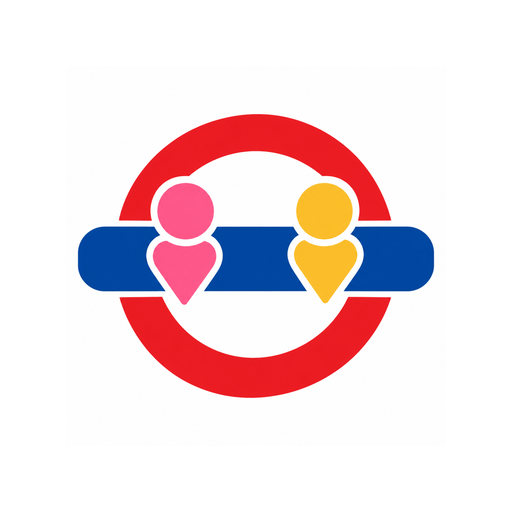
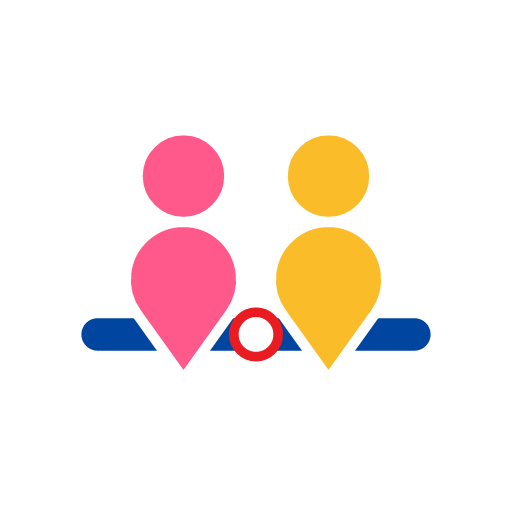
New mark: the two people lead, the tube line supports
The mark is now two large figures (pink and yellow, map-pin bodies)
standing on a tube line with one interchange ring where they meet,
replacing the roundel. scripts/build-icons.ts draws it as SVG and writes
every size: favicons and .ico, an SVG favicon, the app and touch icons, a
maskable icon kept inside Android's safe zone, and the header mark. The
share image and the in-app meeting diagram use the same interchange
marker instead of a roundel.

Claude-Session: https://claude.ai/code/session_01HVrC9VjpQCUVKEcfdWd1bh

Changed region(s): [[0.125, 0.2188, 0.875, 0.7812]]

diff --git a/scripts/build-icons.ts b/scripts/build-icons.ts
@@ -1,0 +1,69 @@
+// The getaround.london mark: two people, the hero, standing on a tube line with one interchange
+// where they meet. Draws it as SVG and writes every icon size the site uses into public/.
+// Run: npx tsx scripts/build-icons.ts [--drive <out.png>]
+import { Resvg } from '@resvg/resvg-js';
+import { writeFileSync } from 'node:fs';
+
+const C = { pink: '#FE598A', yellow: '#FABD29', blue: '#0046A0', red: '#EB1B22' };
+
+// A person: a round head sitting on a map-pin body that points down at the line.
+function person(cx: number, headY: number, color: string): string {
+    const R = 78;
+    const cy = headY + 140;
+    const tipY = cy + 134;
+    const t = Math.acos(R / (tipY - cy));
+    const lx = cx - R * Math.sin(t);
+    const rx = cx + R * Math.sin(t);
+    const ly = cy + R * Math.cos(t);
+    const body = `M ${cx} ${tipY} L ${lx.toFixed(1)} ${ly.toFixed(1)} A ${R} ${R} 0 1 1 ${rx.toFixed(1)} ${ly.toFixed(1)} Z`;
+    return `<path d="${body}" fill="${color}" stroke="#fff" stroke-width="14" stroke-linejoin="round"/><circle cx="${cx}" cy="${headY}" r="62" fill="${color}" stroke="#fff" stroke-width="14"/>`;
+}
+
+/** The mark on a 512 grid; `scale` shrinks it about the centre (for Android's maskable safe zone). */
+export function markSvg({ background, scale = 1 }: { background?: string; scale?: number } = {}): string {
+    const lineY = 362;
+    const art = `<rect x="20" y="${lineY - 22}" width="472" height="44" rx="22" fill="${C.blue}"/>${person(158, 148, C.pink)}${person(354, 148, C.yellow)}<circle cx="256" cy="${lineY}" r="30" fill="#fff" stroke="${C.red}" stroke-width="13"/>`;
+    const shift = (256 * (1 - scale)).toFixed(2);
+    return `<svg xmlns="http://www.w3.org/2000/svg" viewBox="0 0 512 512" width="512" height="512">${background ? `<rect width="512" height="512" fill="${background}"/>` : ''}<g transform="translate(${shift} ${shift}) scale(${scale})">${art}</g></svg>`;
+}
+
+const png = (svg: string, size: number) => new Resvg(svg, { fitTo: { mode: 'width', value: size } }).render().asPng();
+
+/** An .ico holding PNG images (supported by every current browser). */
+function ico(images: { size: number; data: Buffer }[]): Buffer {
+    const header = Buffer.alloc(6 + 16 * images.length);
+    header.writeUInt16LE(0, 0);
+    header.writeUInt16LE(1, 2);
+    header.writeUInt16LE(images.length, 4);
+    let offset = header.length;
+    images.forEach(({ size, data }, i) => {
+        const e = 6 + 16 * i;
+        header.writeUInt8(size >= 256 ? 0 : size, e);
+        header.writeUInt8(size >= 256 ? 0 : size, e + 1);
+        header.writeUInt16LE(1, e + 4);
+        header.writeUInt16LE(32, e + 6);
+        header.writeUInt32LE(data.length, e + 8);
+        header.writeUInt32LE(offset, e + 12);
+        offset += data.length;
+    });
+    return Buffer.concat([header, ...images.map((i) => i.data)]);
+}
+
+const out = (file: string, data: Buffer | string) => writeFileSync(`public/${file}`, data);
+const onWhite = markSvg({ background: '#FFFFFF' });
+
+out('mark.svg', markSvg());
+out('mark-512.png', png(markSvg(), 512));
+out('mark-96.png', png(markSvg(), 96));
+out('icon-512.png', png(onWhite, 512));
+out('icon-192.png', png(onWhite, 192));
+out('apple-touch-icon.png', png(onWhite, 180));
+// Android crops maskable icons to a circle of 80% width: keep the line's ends inside it.
+out('icon-maskable-512.png', png(markSvg({ background: '#FFFFFF', scale: 0.74 }), 512));
+out('favicon-32.png', png(markSvg(), 32));
+out('favicon-16.png', png(markSvg(), 16));
+out('favicon.ico', ico([16, 32, 48].map((size) => ({ size, data: png(markSvg(), size) }))));
+
+const drive = process.argv.indexOf('--drive');
+if (drive > -1) writeFileSync(process.argv[drive + 1], png(onWhite, 1254));
+console.log('icons written to public/');

diff --git a/src/main.ts b/src/main.ts
@@ -602,8 +602,8 @@ function renderConvergenceDiagram(winner: Ranked) {
     });
     html += `
         <circle cx="272" cy="${midY}" r="22" fill="#34C759" class="pulse-halo" />
-        <circle cx="272" cy="${midY}" r="11" fill="#FFFFFF" stroke="#EB1B22" stroke-width="4" />
-        <rect x="256" y="${midY - 3}" width="32" height="6" rx="3" fill="#0046A2" />
+        <rect x="252" y="${midY - 3}" width="40" height="6" rx="3" fill="#0046A0" />
+        <circle cx="272" cy="${midY}" r="9" fill="#FFFFFF" stroke="#EB1B22" stroke-width="4" />
         <text x="272" y="${midY + 28}" text-anchor="middle" fill="#1C1C1E" font-size="10.5" font-weight="700">MEET</text>`;
     svg.innerHTML = html;
 }

diff --git a/index.html b/index.html
@@ -28,6 +28,7 @@
     <meta name="apple-mobile-web-app-status-bar-style" content="default">
     <meta name="apple-mobile-web-app-title" content="getaround">
     <link rel="icon" href="/favicon.ico" sizes="48x48">
+    <link rel="icon" href="/mark.svg" type="image/svg+xml">
     <link rel="icon" href="/favicon-32.png" type="image/png" sizes="32x32">
     <link rel="apple-touch-icon" href="/apple-touch-icon.png">
     <link rel="manifest" href="/manifest.webmanifest">

diff --git a/docs/STATE.md b/docs/STATE.md
@@ -19,8 +19,11 @@ NON-GOALS: live journey times, accounts, stored sessions, bookings.
   the user acted ("Copied. Now paste it" on the button); toasts sit over the header, never over the plan.
 - Nothing ever scrolls, and no text is ever truncated. Screens compact in steps; extra venues sit behind "N more
   places"; pickers trim behind "+N more". Phones held sideways get a "Turn your phone upright" card.
-- Brand: getaround.london wordmark (Outfit 700, ink + roundel red #EB1B22) beside Krish's roundel icon. Second person
-  stays "Friend".
+- Brand: getaround.london wordmark (Outfit 700, ink + red #EB1B22) beside the mark. Mark v2 (approved by Krish
+  2026-10-23): the two people are the hero (pink #FE598A, yellow #FABD29, map-pin bodies), standing on a tube line
+  (#0046A0) with one interchange ring (red) where they meet; no roundel. Drawn in scripts/build-icons.ts, which writes
+  every icon size; Drive folder holds getaroundlondon-icon.png (1024) + .svg master, old file renamed "(previous)".
+  Second person stays "Friend".
 - Subtle footer links on the first screens: How it works · Meeting points · Privacy · Terms, plus
   "Independent. Not affiliated with TfL." Operator: Mindmaker LLC (holding company) on privacy/terms/footers.
 - Exits: the chosen venue gets the nearest station exit (TfL entrance positions, named by compass side) and the
